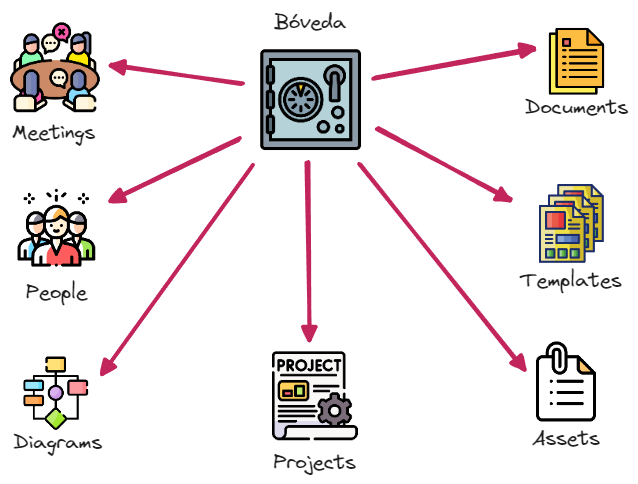
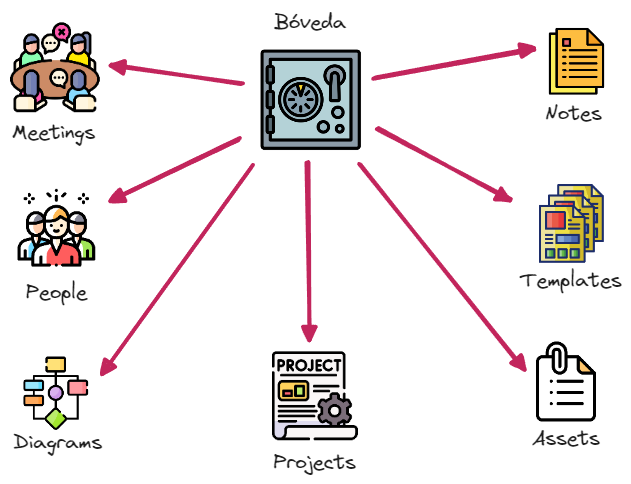
Upload workflow files

diff --git a/docs/workflow/notes/example-1.md b/docs/workflow/notes/example-1.md
@@ -1,0 +1,73 @@
+# DataExtractor
+```metadatos
+day: 2024-02-09
+summary: Servicio de extracción de datos
+type: note
+author: [[Kevin Barroso|Kevin]]
+tags: taba/dataextractor
+```
+## Resumen
+Se debe desarrollar un extractor de datos (block), de forma unificada para los distintos esquemas de datos, esto determina el análisis, la investigación del recurso API REST por parte de la fuente de datos externa. Incorporando metadatos construidos por parte del equipo de Ing. de datos, la catalogación de los datos y el guardados de los datos en una base de datos, planteada en la arquitectura v1 del proyecto, un RDS Database de AWS. Se debe determinar el mejor servicio para garantizar la disponibilidad de las extracciones y la integridad de los datos a extraer. Determinar la frecuencia de extracción para la actualización correcta de los conjuntos de datos.
+!!! info
+    Block se refiere a un componente dentro del Stack, determinando una porción mas chica para el desarrollo e implementación dentro de la arquitectura completa, mucho mas eficiente para la granularidad de tareas y gestión.  
+## Objetivo
+El objetivo del extractor de datos es obtener información específica de la fuente de datos externa, con la necesidad de la extracción de esquemas de datos necesarios por parte de cada uno de los Stacks del proyecto. 
+## Plan de acción
+Por lo que se deben cumplir los siguientes lineamientos para el desarrollo, prueba e implementación del extractor:
+
+- Modelo de extracción
+- Contexto de error
+- Modelo de testing
+- Marco de código
+- Typing
+- Documentación de implementación, operación y errores
+- Logs
+
+### Backlog de tareas para el proyecto
+- Diseño de extracción
+- Modelo de extracción
+- Marco de código
+- Preparación del entorno
+- Desarrollo
+- Testing
+- Contexto de error
+- Seguridad
+- Logs y observabilidad
+- Documentación
+- Deploy
+## Roles y responsabilidades
+La gestión del proyecto es determinada por el Project Manager de TABA, como también la construcción de este recurso. Se determina los siguientes perfiles y responsabilidades para el plan de acción:
+
+- **Arquitecto de Nube**
+	- Diseño y solución de la arquitectura actual
+	- Selección y análisis de los servicios
+	- Seguridad del entorno y los recursos
+	- Preparación del entorno
+	- Optimización de los costos
+	- Gestión de la capacidad y escalabilidad
+	- Orquestación y automatización
+	- Criticidad y riesgos
+	- Documentación de implementación y arquitectura
+- **Ing. de datos**
+	- Análisis de requisitos
+	- Modelo de extracción
+	- Marco de código
+	- Catalogo de los datos
+	- Política y seguridad de los datos
+	- Resolución de problemas de datos
+	- Validación de los datos
+	- Documentación de los flujos de datos y modelos
+- **Desarrollador ETL**
+	- Diseño de proceso ETL
+	- Desarrollo
+	- Flujo de datos
+	- Optimización de código y rendimiento
+	- Contexto de errores
+	- Pruebas y validaciones
+	- Documentación de desarrollo y funcionalidad
+
+## Conclusión 
+Se considera determinar ajustes de tiempo debido a la asignación de tiempo y el perfil de cada uno de los roles para el desarrollo del bloque. Determinar un esquema de carga de trabajo para ajustes de tiempo y responsabilidades.
+Dado la experiencia de los perfiles, la evolución del proyecto y necesidad del extracto se considera entre un marco de trabajo de 35 horas a 70 horas para el equipo en cuestión. Ya que se considera por primera vez en cuestiones de herramientas y uso de AWS de modo desarrollo.
+
+:material-arrow-right-thick: [Atras](note.md)

diff --git a/docs/workflow/people/example-1.md b/docs/workflow/people/example-1.md
@@ -1,0 +1,29 @@
+# Kevin Barroso (Ejemplo)
+```metadatos
+email: kevin.barroso@taligent.com.ar
+aliases: Kevin
+role: Cloud Architect
+tags:
+    - taba
+    - aws
+assigment: 25
+type: profile
+```
+## Cloud Architect AWS SSr
+Como arquitecto de nube (Cloud Architect) en AWS (Amazon Web Services), el rol implica diseñar, implementar y administrar soluciones en la nube utilizando los servicios y recursos proporcionados por AWS. Aquí hay algunas responsabilidades típicas de un Cloud Architect en AWS.
+## Rol y responsabilidades
+- Diseño y solución de la arquitectura actual 
+- Selección y análisis de los servicios 
+- Seguridad del entorno y los recursos 
+- Preparación del entorno 
+- Optimización de los costos 
+- Gestión de la capacidad y escalabilidad 
+- Orquestación y automatización 
+- Criticidad y riesgos 
+- Documentación de implementación y arquitectura
+## Habilidades
+Como Cloud Architect de AWS, se espera que tenga el conjunto diverso de habilidades técnicas y blandas para diseñar, implementar y gestionar arquitecturas de nube escalables y seguras. A continuación las distintas tecnologías de conocimiento general:
+
+![AWS](https://img.shields.io/badge/AWS-%23FF9900.svg?style=for-the-badge&logo=amazon-aws&logoColor=white) ![Neovim](https://img.shields.io/badge/NeoVim-%2357A143.svg?&style=for-the-badge&logo=neovim&logoColor=white) ![Vim](https://img.shields.io/badge/VIM-%2311AB00.svg?style=for-the-badge&logo=vim&logoColor=white) ![Shell Script](https://img.shields.io/badge/shell_script-%23121011.svg?style=for-the-badge&logo=gnu-bash&logoColor=white) ![Visual Studio Code](https://img.shields.io/badge/Visual%20Studio%20Code-0078d7.svg?style=for-the-badge&logo=visual-studio-code&logoColor=white) ![Lua](https://img.shields.io/badge/lua-%232C2D72.svg?style=for-the-badge&logo=lua&logoColor=white) ![Python](https://img.shields.io/badge/python-3670A0?style=for-the-badge&logo=python&logoColor=ffdd54) ![FastAPI](https://img.shields.io/badge/FastAPI-005571?style=for-the-badge&logo=fastapi) ![Jira](https://img.shields.io/badge/jira-%230A0FFF.svg?style=for-the-badge&logo=jira&logoColor=white) ![Flask](https://img.shields.io/badge/flask-%23000.svg?style=for-the-badge&logo=flask&logoColor=white) ![Terraform](https://img.shields.io/badge/terraform-%235835CC.svg?style=for-the-badge&logo=terraform&logoColor=white) ![Git](https://img.shields.io/badge/git-%23F05033.svg?style=for-the-badge&logo=git&logoColor=white) ![GitHub](https://img.shields.io/badge/github-%23121011.svg?style=for-the-badge&logo=github&logoColor=white)
+
+:material-arrow-right-thick: [Atras](people.md) <br>

diff --git a/docs/workflow/projects/project.md b/docs/workflow/projects/project.md
@@ -1,0 +1,53 @@
+# Documento de Proyecto
+## Resumen
+El tipo de documento **Documento de Proyecto o Project Document** contiene información detallada sobre el alcance, los objetivos, los recursos, el cronograma, los riesgos y otros aspectos relevantes del proyecto. Actúa como una guía o referencia central para todos los miembros del equipo del proyecto, así como para las partes interesadas externas.
+## Objetivo
+El objetivo principal del documento de proyecto es proporcionar una guía detallada y estructurada para planificar, ejecutar y controlar el proyecto de manera efectiva.
+## Estructura
+Los proyectos cuentan con una estructura de carpetas y documentos para una mejor gestión
+
+- Projects
+    - Project 1 (v1)
+        - Portada
+        - Manuales
+        - Recursos
+        - Informes
+    - Porject N (v*N*)
+        - Portada
+        - Manuales
+        - Recursos
+        - Informes
+  
+!!! warning
+    La estructura del proyecto puede estar determinada por el tipo de servicio contratado por el cliente, para un mayor entendimiento consultar con **Producto**
+
+## Modelo
+En el siguiente modelo representa los campos necesarios para completar en un documento de proyecto.
+
+> Titulo
+>
+> Resumen | Explicación breve
+>
+> Objetivo | Propósito principal 
+>
+> Alcance | Límites determinados por el proyecto
+> 
+> Procesos | Funcionamiento completo del proyecto
+> 
+> Referencias | Información adicional
+
+!!! info
+    Tambien se deben completar los siguientes metadatos:
+
+    - __day__: fecha de creación (ej. 2024-03-15)
+    - __tags__: etiqueta con el nombre del cliente (ver catalogo)
+    - __type__: tipo de documento, en este caso "project-document"
+    - __author__: nombre y apellido del creador de la nota, agregando el alias del documento [Persona](../people/people.md) (ej. [[Kevin]])
+    - __version__: número de version del proyecto (ej. v1)
+
+## Ejemplo
+Se procede mostrar un ejemplo para mayor entendimiento
+
+
+
+:material-arrow-right-thick: [Atras](../index.md)

diff --git a/docs/workflow/meetings/meeting.md b/docs/workflow/meetings/meeting.md
@@ -1,0 +1,37 @@
+# Minuta de reunión
+## Resumen
+El tipo de documento **Minuta de reunión o Meeting** generalmente incluirá los puntos clave discutidos durante la reunión, las decisiones tomadas y las acciones a seguir.
+## Objetivo
+El objetivo es mantener un registro de las actividades y decisiones de una reunión, así como para garantizar una comunicación efectiva y un seguimiento adecuado de las acciones acordadas.
+## Modelo
+En el siguiente modelo representa los campos necesario para completar una minuta de reunión.
+
+> Titulo de la reunión
+> 
+> Participantes
+> | _Solo los participantes que estuvieron presentes en la reunión_
+>
+> Agenda | _Los distintos puntos a discutir_
+> 
+> Registro | _Desiciones que se tomaron respecto a cada punto_
+>
+> Proximos pasos | _Acciones a realizar_
+
+!!! info
+    Tambien se deben completar los siguientes metadatos:
+
+    - __day__: fecha de la reunión (ej. 2024-03-15)
+    - __time__: horario de la reunión (ej. 10:00)
+    - __duration__: duración de la reunión en minutos (ej. 60)
+    - __summary__: asunto de la reunión
+    - __tags__: etiqueta con el nombre del cliente (ver catalogo)
+    - __type__: tipo de documento, en este caso "meeting"
+
+Las reuniones deben ser llevadas a cabo por el organizador de la reunión, liderando cada uno de los puntos a discutir y dando cierre en los registros. En caso que un punto no se haya dado por cerrado, se debe dejar presente para la proxima reunión.
+
+## Ejemplo
+Se procede mostrar un ejemplo para mayor entendimiento
+
+- [Ejemplo](example-1.md)
+
+:material-arrow-right-thick: [Atras](../index.md) <br>

diff --git a/docs/workflow/notes/note.md b/docs/workflow/notes/note.md
@@ -1,0 +1,35 @@
+# Nota
+## Resumen
+El tipo de documento **Nota o Note** es corto y conciso que se utiliza para registrar información relevante, comunicar mensajes importantes o tomar notas rápidas sobre diversos temas como mejoras, arreglos o investigaciones.
+## Objetivo
+El objetivo es tener una comprensión clara de los cambios y posibles mejoras a lo largo del proyecto, siendo un borrador para determinar si se debe incluir en la documentación del proyecto.
+## Modelo
+En el siguiente modelo representa los campos necesarios para completar una nota.
+
+> Titulo
+> 
+> Resumen | Explicación breve
+>
+> Objetivo | Propósito principal 
+> 
+> Plan de acción | Solución apliar, definicion de pasos e implementación
+> 
+> Conclusión | Síntesis final
+
+!!! info
+    Tambien se deben completar los siguientes metadatos:
+
+    - __day__: fecha de creación (ej. 2024-03-15)
+    - __summary__: detalle corto de la nota
+    - __tags__: etiqueta con el nombre del cliente (ver catalogo)
+    - __type__: tipo de documento, en este caso "note"
+    - __author__: nombre y apellido del creador de la nota, agregando el alias del documento [Persona](../people/people.md) (ej. [[Kevin]])
+
+La nota debe ser un método de propuesta para aplicar en el proyecto. Una vez generadas las notas se deben evaluar y aprobar por el líder del equipo, para definir su incorporación al proyecto o no.
+
+## Ejemplo
+Se procede mostrar un ejemplo para mayor entendimiento
+
+- [Ejemplo](example-1.md)
+
+:material-arrow-right-thick: [Atras](../index.md) <br>

diff --git a/docs/workflow/people/people.md b/docs/workflow/people/people.md
@@ -1,0 +1,37 @@
+# Persona
+## Resumen
+El tipo de documento **Persona o People** es el perfil de cada uno de los integrantes del equipo, identificando rol, responsabilidad, habilidades como asignación en el proyecto.
+## Objetivo
+El objetivo es tener una comprensión clara de quién es responsable de qué aspectos del proyecto, cómo se distribuyen las tareas y cómo se puede maximizar la eficiencia y la colaboración.
+## Modelo
+En el siguiente modelo representa los campos necesario para completar en un perfil.
+
+> Nombre y Apellido
+> 
+> Puesto en el proyecto | Categoria
+>
+> Descripción del puesto
+> 
+> Rol y responsabilidad
+>
+> Habilidades
+
+!!! info
+    Tambien se deben completar los siguientes metadatos:
+
+    - __email__: direccion de correo de la organización
+    - __aliases__: apodo o nombre mas corto para ser una busqueda mas exacta del perfil
+    - __role__: puestro en el proyecto
+    - __tags__: etiqueta con el nombre del cliente (ver catalogo)
+    - __assigment__: porcentaje de tiempo en el proyecto por dia (ej. 50)
+    - __type__: tipo de documento, en este caso "profile"
+
+El perfil es un documento unico por integrante, por lo que no debe existir duplicidad.
+Cabe aclarar que al pertenecer a otro equipo o cliente, se puede exportar el perfil, ajustando puesto y/o responsabilidades, como asignacion.
+
+## Ejemplo
+Se procede mostrar un ejemplo para mayor entendimiento
+
+- [Ejemplo](example-1.md)
+
+:material-arrow-right-thick: [Atras](../index.md) <br>

diff --git a/docs/workflow/diagrams/diagram.md b/docs/workflow/diagrams/diagram.md
@@ -1,0 +1,28 @@
+# Diagrama
+## Resumen
+El tipo de documento **Diagrama o Diagram** es una representación visual de información, datos o conceptos que ayuda a comprender de manera clara y rápida la relación entre ellos. 
+## Objetivo
+El objetivo principal de un diagrama es simplificar la comprensión de información compleja o abstracta, permitiendo a los usuarios visualizar y entender fácilmente la relación entre diferentes elementos.
+## Modelo
+Existen distintos tipos de modelos:
+
+- Diagrama de arquitectura
+- Diagrama de flujo
+
+!!! info
+    Tambien se deben completar los siguientes metadatos:
+
+    - __day__: fecha de creación (ej. 2024-03-15)
+    - __summary__: detalle corto del diagrama
+    - __tags__: etiqueta con el nombre del cliente (ver catalogo)
+    - __type__: tipo de documento, en este caso "diagram"
+    - __author__: nombre y apellido del creador del diagrama, agregando el alias del documento [Persona](../people/people.md) (ej. [[Kevin]])
+
+El diagrama debe ser un método de propuesta para aplicar en el proyecto. Una vez generado el diagrama se deben evaluar y aprobar por el líder del equipo, para definir su incorporación al proyecto o no.
+
+## Ejemplo
+Se procede mostrar un ejemplo para mayor entendimiento
+
+- [Ejemplo](example-1.md)
+
+:material-arrow-right-thick: [Atras](../index.md) <br>

diff --git a/docs/workflow/index.md b/docs/workflow/index.md
@@ -15,6 +15,18 @@ Una vez finalizada la tarea, se debe generar un documento al respecto, para dich
 !!! warning
     La gestión de tareas no esta incluida dentro de la base documental.
 
-Los documentos tienen un modelo a partir de una plantilla o Template, para reducir el tiempo de edición, y poder facilitar el tiempo al equipo.
+Los documentos tienen un modelo a partir de una plantilla o Template, para reducir el tiempo de edición, y poder facilitar al equipo.
 !!! note
     Es necesario crear distintos templates de documentos a partir del tipo de tarea, para automatizar el proceso de lectura por parte del Líder.
+
+## Tipos de documentos
+Cada tipo de documento, determina una accion en el flujo de trabajo y una interacción entre los distintos documentos.
+
+- [People](people/people.md)
+- [Meeting](meetings/meeting.md)
+- [Note](notes/note.md)
+- [Diagram](diagrams/diagram.md)
+- [Project Document](projects/project.md)
+- [Template](templates/template.md)
+
+:material-arrow-right-thick: [Atras](../index.md) <br>

diff --git a/docs/workflow/meetings/example-1.md b/docs/workflow/meetings/example-1.md
@@ -1,0 +1,23 @@
+# DevOps TABA (Ejemplo)
+```metadatos
+day: 2024-02-29
+time: 10:00
+duration: 45
+type: meeting
+tags: 
+    - unid/taba
+summary: Estrategia de backlog para el DevOps
+```
+## Attendees
+- Kevin Barroso | Organizador
+- Esteban Ruiz
+## Agenda
+- [x] *Backlog de tareas para el DevOps*
+## Log
+- 📖 11:13:59 - Definir un roadmap de los Stacks para organizacion del backlog
+- 📖 11:14:09 - Extension del desarrollador de ETL por una semana mas
+- 📖 11:14:22 - Continuar con el 25% de asignación del Ing. de Datos
+## Next Action
+- [x] Desarrollar roadmap para los distintos stacks
+
+:material-arrow-right-thick: [Atras](meeting.md) <br>

diff --git a/docs/workflow/templates/template.md b/docs/workflow/templates/template.md
@@ -1,0 +1,12 @@
+# Plantilla
+## Resumen
+El tipo de documento **Plantilla o Template** es un modelo o patrón predefinido que sirve como punto de partida para la creación de los distintos tipos de documentos.
+## Objetivo
+El objetivo de un template es simplificar y agilizar el proceso de creación de contenido al proporcionar una estructura predefinida y elementos preestablecidos que pueden ser personalizados según las necesidades específicas de cada proyecto.
+
+## Ejemplo
+Se procede mostrar un ejemplo para mayor entendimiento
+
+- [Ejemplo](example-1.md)
+
+:material-arrow-right-thick: [Atras](../index.md)

diff --git a/docs/index.md b/docs/index.md
@@ -37,4 +37,4 @@ La estructura de carpetas de la bóveda se define bajo cada uno de los tipos de 
 
 Para determinar el uso de cada uno de los distintos tipos de documentos, se necesita comprender un flujo de trabajo dentro de la base documental.
 
-[Flujo de Trabajo](workflow/index.md)
+:material-arrow-right-thick:[Flujo de Trabajo](workflow/index.md)

diff --git a/docs/workflow/diagrams/example-1.md b/docs/workflow/diagrams/example-1.md
@@ -1,0 +1,5 @@
+# Arquitectura
+
+![Arquitectura](../../assets/images/base-documental-workflow-architecture.png)
+
+:material-arrow-right-thick: [Atras](../index.md) <br>
